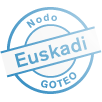
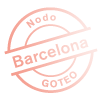
Nodo barcelona: imagenes y estilos específicos

Changed region(s): [[0.0, 0.0588, 1.0, 0.9412]]

diff --git a/nodesys/barcelona/view/css/config.css b/nodesys/barcelona/view/css/config.css
@@ -4,11 +4,11 @@ body.node {
 }
 
 div#node-header span.blue {
-    color: #1F81BB !important;
+    color: #F08678 !important;
 }
 
 body.node.home > div.widget > div.title-line {
-    border-color: #1F81BB !important;
+    border-color: #F08678 !important;
 }
 
 div#node-header div.logos div.node-home > a {
@@ -19,19 +19,19 @@ div#node-header div.logos div.node-home > a:hover {
     background: url('/nodesys/barcelona/view/css/goteo-logo.png') no-repeat right top;
 }
 
-div#header div#menu{background:none repeat scroll 0 0 #2895CB !important}
-div#header div#menu > ul > li.search fieldset input[type="submit"]:hover{background-color:#58A0CD !important}
+div#header div#menu{background:none repeat scroll 0 0 #f59a8a !important}
+div#header div#menu > ul > li.search fieldset input[type="submit"]:hover{background-color:#F08678 !important}
 
 /*rollover*/
 div#header div#menu > ul > li.community:hover,
 div#header div#menu > ul > li.login:hover,
-div#header div#menu > ul > li.dashboard:hover{background-color:#58A0CD !important}
+div#header div#menu > ul > li.dashboard:hover{background-color:#F08678 !important}
 
 /*submenus*/
-div#header div#menu > ul > li.community > div > ul, div#header div#menu > ul > li.dashboard > div > ul{background-color:#2895CB}
+div#header div#menu > ul > li.community > div > ul, div#header div#menu > ul > li.dashboard > div > ul{background-color:#db7b64}
 div#header div#menu > ul > li.community > div > ul > li > a:hover,
 div#header div#menu > ul > li.dashboard > div > ul > li > a:hover {
-    background-color: #58A0CD;
+    background-color: #F08678;
 }
 
 /* Pestaña de información/cerrar banner */
@@ -41,13 +41,13 @@ div#header div#menu > ul > li.info > a.close{background:url('/nodesys/barcelona/
 div#header div#menu > ul > li.info > a.close:hover{background:url('/nodesys/barcelona/view/css/node_info.png') no-repeat right center transparent}
 /* Fin de pestaña de información/cerrar banner */
 
-div.node-banners-container div.node-banner > div.short-desc{color:#1f81bb;}
-ul.bannerspage li.current a{ background-color:#1f81bb !important;  color:#1f81bb !important}
+div.node-banners-container div.node-banner > div.short-desc{color:#F08678;}
+ul.bannerspage li.current a{ background-color:#F08678 !important;  color:#F08678 !important}
 
 /*widget de buscador*/
-div.side_widget > div.button.current{color:#1f81bb}
-div.side_widget > div.button.current > p > a{color:#1f81bb;}
-div.side_widget > div.categories.current p.title, div.side_widget > div.rewards.current p.title{color:#1F81BB;}
+div.side_widget > div.button.current{color:#F08678}
+div.side_widget > div.button.current > p > a{color:#F08678;}
+div.side_widget > div.categories.current p.title, div.side_widget > div.rewards.current p.title{color:#F08678;}
 /*fin de widget de buscador*/
 
 body.project-show div.project-menu ul li.show a {

diff --git a/nodesys/barcelona/view/css/node.css b/nodesys/barcelona/view/css/node.css
@@ -1,1 +1,8 @@
 /* Estilos específicos para el nodo */
+div.content_widget h2 > span.line {background-color: #F08678 !important;}
+body.node.home div.node-projects ul li .categories {background-color: #F08678 !important;}
+body.node.home div.node-projects ul li.active .title a {color: #F08678 !important;}
+div.side_widget > div.button > p > a {background-image: url("/nodesys/barcelona/view/css/arrows.gif") !important;}
+ul.bannerspage li a {background-color: #F4A49A !important; color: #F4A49A !important;}
+div#message {background-color: #F08678 !important;}
+

diff --git a/nodesys/barcelona/config.php b/nodesys/barcelona/config.php
@@ -7,7 +7,7 @@ define('NODE_META_KEYWORDS', utf8_encode('crowdfunding, procomún, commons, soci
 define('NODE_META_AUTHOR', 'Goteo Node System');
 define('NODE_META_COPYRIGHT', 'Platoniq');
 define('NODE_DEFAULT_LANG', 'ca');
-define('NODE_URL', 'http://barcelona.goteo.org');
+define('NODE_URL', 'http://barcelona.devgoteo.org');
 define('NODE_NAME', 'GoteoBarcelona');
 define('NODE_MAIL', 'goteo_barcelona@doukeshi.org');
 define('NODE_ANALYTICS_TRACKER', "<script>
